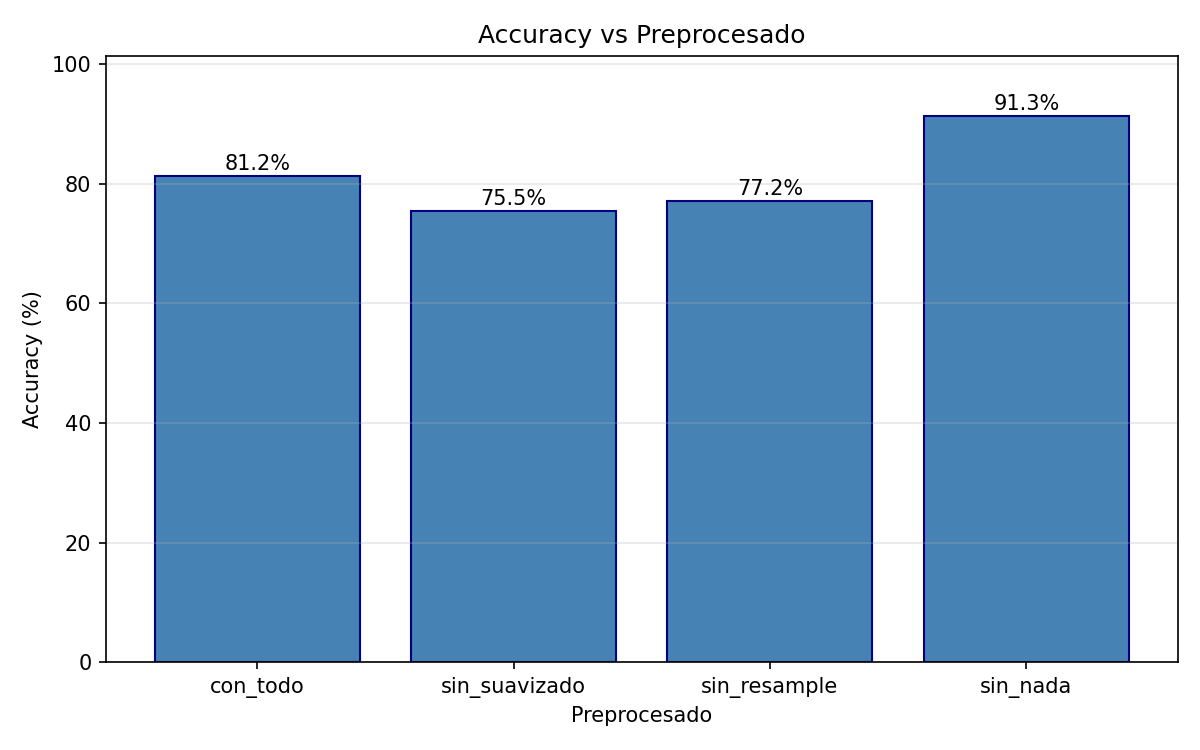
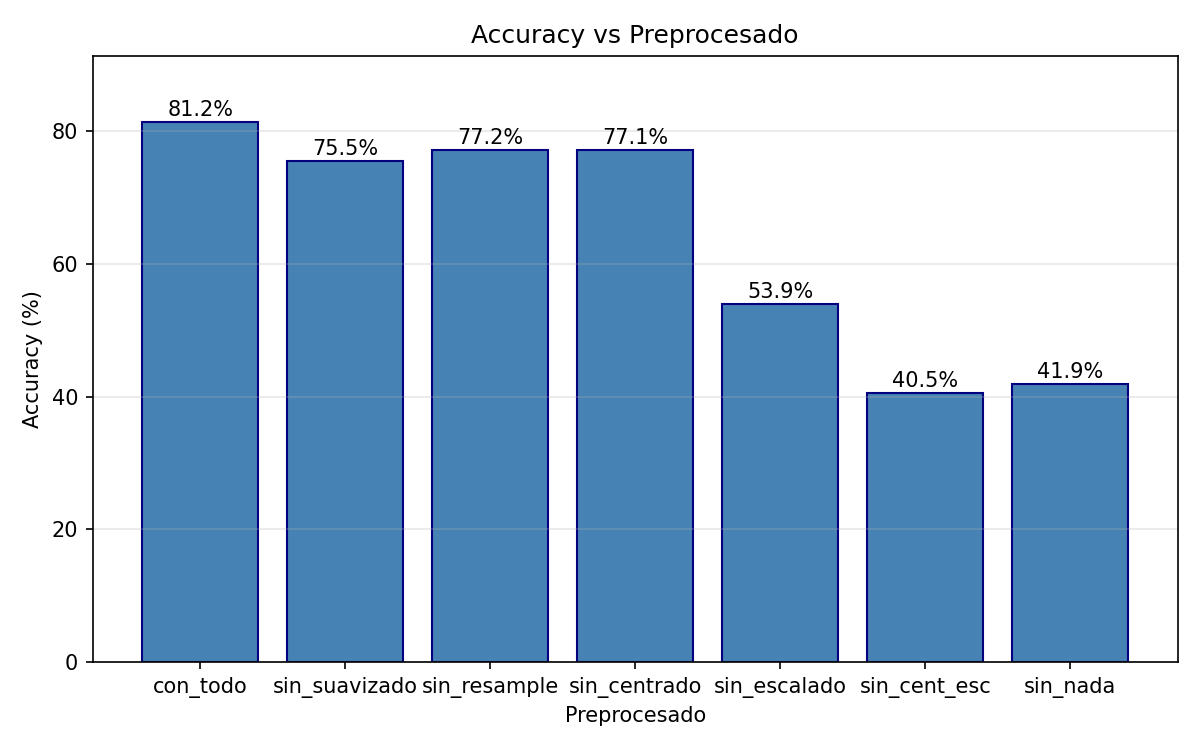
Add centrado/escalado ablation + LOO cross-validation
- preprocesar() now supports optional centrar/escalar params
- Complete preprocessing table: con_todo, sin_suavizado, sin_resample,
  sin_centrado, sin_escalado, sin_cent_esc, sin_nada
- Added Leave-One-User-Out CV (78.40% +/- 8.79%) as 3rd scenario
- Updated informe.md with all new results and analysis

Changed region(s): [[0.0308, 0.0613, 0.9558, 0.9813], [0.4008, 0.0307, 0.6783, 0.0613]]

diff --git a/clasificador_digitos.py b/clasificador_digitos.py
@@ -37,6 +37,7 @@ from scipy.interpolate import interp1d
 from scipy.signal import savgol_filter
 from hmmlearn import hmm
 from sklearn.metrics import confusion_matrix as sk_confusion_matrix
+from sklearn.model_selection import LeaveOneOut
 import matplotlib
 matplotlib.use("Agg")
 import matplotlib.pyplot as plt
@@ -191,15 +192,15 @@ def iterar_muestras(db, user_ids):
 # =============================================================================
 
 def preprocesar(x, y, timestamp, n_resample=80, suavizar=True,
-                savgol_ventana=7, savgol_orden=3):
+                savgol_ventana=7, savgol_orden=3, centrar=True, escalar=True):
     """Pipeline de preprocesado para una muestra.
 
     Pasos:
       1. Resetear timestamp a t=0
       2. Suavizado Savitzky-Golay (opcional, reduce ruido del sensor)
       3. Remuestreo equidistante en longitud de arco
-      4. Centrado (restar media de X e Y)
-      5. Escalado a [-1, 1] manteniendo proporcion
+      4. Centrado (restar media de X e Y) (opcional)
+      5. Escalado a [-1, 1] manteniendo proporcion (opcional)
 
     Args:
         x, y, timestamp: coordenadas y tiempos en bruto
@@ -207,6 +208,8 @@ def preprocesar(x, y, timestamp, n_resample=80, suavizar=True,
         suavizar: si True, aplica filtro Savitzky-Golay
         savgol_ventana: tamaño de ventana del filtro
         savgol_orden: orden del polinomio del filtro
+        centrar: si True, resta la media de X e Y
+        escalar: si True, escala a [-1, 1] manteniendo proporcion
 
     Returns:
         x, y, timestamp: arrays preprocesados
@@ -244,14 +247,16 @@ def preprocesar(x, y, timestamp, n_resample=80, suavizar=True,
                 x, y, timestamp = fx(s_objetivo), fy(s_objetivo), ft(s_objetivo)
 
     # 4. Centrado
-    x = x - np.mean(x)
-    y = y - np.mean(y)
+    if centrar:
+        x = x - np.mean(x)
+        y = y - np.mean(y)
 
     # 5. Escalado preservando aspect ratio
-    factor_escala = max(np.ptp(x), np.ptp(y))
-    if factor_escala > 0:
-        x = x / factor_escala
-        y = y / factor_escala
+    if escalar:
+        factor_escala = max(np.ptp(x), np.ptp(y))
+        if factor_escala > 0:
+            x = x / factor_escala
+            y = y / factor_escala
 
     return x, y, timestamp
 
@@ -500,7 +505,7 @@ def clasificar_lote(modelos, secuencias, etiquetas_reales):
 # =============================================================================
 
 def preparar_datos(db, user_ids, indices_features, n_resample=80,
-                   suavizar=True):
+                   suavizar=True, centrar=True, escalar=True):
     """Preprocesa y extrae features para un conjunto de usuarios.
 
     Returns:
@@ -516,6 +521,7 @@ def preparar_datos(db, user_ids, indices_features, n_resample=80,
         x, y, ts = preprocesar(
             muestra["x"], muestra["y"], muestra["timestamp"],
             n_resample=n_resample, suavizar=suavizar,
+            centrar=centrar, escalar=escalar,
         )
         feats = extraer_features(x, y, muestra["presion"],
                                  indices_features=indices_features)
@@ -552,6 +558,8 @@ def ejecutar_escenario(db, usuarios_train, usuarios_test, config,
     prob_autolazo = config.get("prob_autolazo", 0.6)
     n_resample = config.get("n_resample", 80)
     suavizar = config.get("suavizar", True)
+    centrar = config.get("centrar", True)
+    escalar = config.get("escalar", True)
 
     if verbose:
         print(f"\n  Escenario: {nombre}")
@@ -566,12 +574,14 @@ def ejecutar_escenario(db, usuarios_train, usuarios_test, config,
     if verbose:
         print("    [1/5] Preparando datos de entrenamiento...")
     train_por_digito, train_seqs, train_labels = preparar_datos(
-        db, usuarios_train, indices_features, n_resample, suavizar)
+        db, usuarios_train, indices_features, n_resample, suavizar,
+        centrar, escalar)
 
     if verbose:
         print("    [2/5] Preparando datos de test...")
     _, test_seqs, test_labels = preparar_datos(
-        db, usuarios_test, indices_features, n_resample, suavizar)
+        db, usuarios_test, indices_features, n_resample, suavizar,
+        centrar, escalar)
 
     # 2. Normalización Z-Score (ajustar SOLO con train)
     if verbose:
@@ -697,7 +707,8 @@ def graficar_comparativa_global(todos_resultados, filepath):
 
 
 def graficar_viterbi(db, modelos, normalizador, user_ids, indices_features,
-                     n_resample=80, suavizar=True, directorio_salida=None):
+                     n_resample=80, suavizar=True, centrar=True, escalar=True,
+                     directorio_salida=None):
     """Genera gráficas de Viterbi: colorea el trazado por estado HMM.
 
     Para cada dígito (0-9), toma una muestra del primer usuario de test,
@@ -719,7 +730,8 @@ def graficar_viterbi(db, modelos, normalizador, user_ids, indices_features,
         # Preprocesar
         x, y, ts = preprocesar(muestra["x"], muestra["y"],
                                 muestra["timestamp"],
-                                n_resample=n_resample, suavizar=suavizar)
+                                n_resample=n_resample, suavizar=suavizar,
+                                centrar=centrar, escalar=escalar)
 
         # Extraer y normalizar features
         feats = extraer_features(x, y, muestra["presion"],
@@ -891,9 +903,9 @@ def main():
     datos_cache = {}  # {(subset, suavizar, n_resample): (train_norm_por_digito, test_norm, test_labels, normalizador)}
 
     def _preparar_cache(subset, suavizar, n_resample, train_users, test_users,
-                        etiqueta=None):
+                        etiqueta=None, centrar=True, escalar=True):
         """Prepara y cachea datos para una configuracion de preprocesado."""
-        clave = (subset, suavizar, n_resample, len(train_users))
+        clave = (subset, suavizar, n_resample, len(train_users), centrar, escalar)
         if clave in datos_cache:
             return datos_cache[clave]
 
@@ -902,9 +914,9 @@ def main():
             print(f"    Preparando: {etiqueta}...", end=" ", flush=True)
 
         _, train_seqs, train_labels = preparar_datos(
-            db, train_users, indices, n_resample, suavizar)
+            db, train_users, indices, n_resample, suavizar, centrar, escalar)
         _, test_seqs, test_labels = preparar_datos(
-            db, test_users, indices, n_resample, suavizar)
+            db, test_users, indices, n_resample, suavizar, centrar, escalar)
 
         normalizador = NormalizadorZScore()
         train_norm = normalizador.ajustar_y_transformar(train_seqs)
@@ -1008,18 +1020,22 @@ def main():
                          os.path.join(RESULTS_DIR, "comp_autolazo.png"))
 
     # --- 3.5: Efectos del preprocesado ---
+    # (nombre, suavizar, n_resample, centrar, escalar)
     print("\n  --- Efectos del preprocesado ---", flush=True)
     preproc_configs = [
-        ("con_todo",       True,  80),
-        ("sin_suavizado",  False, 80),
-        ("sin_resample",   True,  0),
-        ("sin_nada",       False, 0),
+        ("con_todo",       True,  80, True,  True),
+        ("sin_suavizado",  False, 80, True,  True),
+        ("sin_resample",   True,  0,  True,  True),
+        ("sin_centrado",   True,  80, False, True),
+        ("sin_escalado",   True,  80, True,  False),
+        ("sin_cent_esc",   True,  80, False, False),
+        ("sin_nada",       False, 0,  False, False),
     ]
     res_preproc = []
-    for nombre, suav, nres in preproc_configs:
+    for nombre, suav, nres, cent, esc in preproc_configs:
         t0 = time.time()
         tr, te, tl, _ = _preparar_cache(
-            "med", suav, nres, train_74, test_74, nombre)
+            "med", suav, nres, train_74, test_74, nombre, cent, esc)
         r = _entrenar_y_evaluar(tr, te, tl, n_restarts=2, n_iter=50)
         dt = time.time() - t0
         res_preproc.append({"valor": nombre, "accuracy": r["accuracy"]})
@@ -1071,11 +1087,58 @@ def main():
         res_47["confusion_matrix"], "Matriz de Confusion - N=47 (mejor config)",
         os.path.join(RESULTS_DIR, "confusion_N47.png"))
 
+    # --- Escenario ALL: Leave-One-User-Out Cross Validation ---
+    print("\n  >>> Escenario ALL (Leave-One-User-Out CV) <<<", flush=True)
+    loo = LeaveOneOut()
+    n_users = len(user_ids)
+    accuracies_loo = []
+    cm_acumulada = np.zeros((10, 10), dtype=int)
+    indices_med = FEATURE_SUBSETS["med"]
+
+    for fold_idx, (train_idx, test_idx) in enumerate(loo.split(user_ids)):
+        train_users_fold = [user_ids[i] for i in train_idx]
+        test_users_fold = [user_ids[i] for i in test_idx]
+
+        _, train_seqs, train_labels = preparar_datos(
+            db, train_users_fold, indices_med, n_resample=80, suavizar=True)
+        _, test_seqs, test_labels = preparar_datos(
+            db, test_users_fold, indices_med, n_resample=80, suavizar=True)
+
+        normalizador_fold = NormalizadorZScore()
+        train_norm = normalizador_fold.ajustar_y_transformar(train_seqs)
+        test_norm = normalizador_fold.transformar(test_seqs)
+
+        train_norm_por_digito = defaultdict(list)
+        for seq, label in zip(train_norm, train_labels):
+            train_norm_por_digito[label].append(seq)
+
+        r_fold = _entrenar_y_evaluar(train_norm_por_digito, test_norm,
+                                     test_labels, n_estados=7,
+                                     tipo_covarianza="diag", n_iter=100,
+                                     n_restarts=5, prob_autolazo=0.6)
+        accuracies_loo.append(r_fold["accuracy"])
+        cm_acumulada += r_fold["confusion_matrix"]
+        print(f"    Usuario {fold_idx+1}/{n_users} ({test_users_fold[0]}): "
+              f"accuracy={r_fold['accuracy']*100:.1f}%", flush=True)
+
+    acc_media_loo = np.mean(accuracies_loo)
+    acc_std_loo = np.std(accuracies_loo)
+    todos_resultados["MEJOR_LOO_ALL"] = acc_media_loo
+    print(f"    Media: {acc_media_loo*100:.2f}% (+/- {acc_std_loo*100:.2f}%)",
+          flush=True)
+
+    graficar_confusion(
+        cm_acumulada,
+        f"Matriz de Confusion - LOO CV ({acc_media_loo*100:.1f}% media)",
+        os.path.join(RESULTS_DIR, "confusion_LOO.png"))
+
     # Resumen
-    print(f"\n  {'Escenario':<15} {'Accuracy':>10}")
-    print("  " + "-" * 28)
-    print(f"  {'N=74':<15} {res_74['accuracy'] * 100:>9.2f}%")
-    print(f"  {'N=47':<15} {res_47['accuracy'] * 100:>9.2f}%", flush=True)
+    print(f"\n  {'Escenario':<25} {'Accuracy':>10}")
+    print("  " + "-" * 38)
+    print(f"  {'N=74 (74 train/19 test)':<25} {res_74['accuracy'] * 100:>9.2f}%")
+    print(f"  {'N=47 (47 train/46 test)':<25} {res_47['accuracy'] * 100:>9.2f}%")
+    print(f"  {'ALL (LOO CV)':<25} {acc_media_loo * 100:>8.2f}% +/- {acc_std_loo * 100:.2f}%",
+          flush=True)
 
     # ------------------------------------------------------------------
     # PASO 5: Visualizaciones
@@ -1130,6 +1193,8 @@ def main():
     print(f"\n  Tiempo total: {elapsed / 60:.1f} minutos")
     print(f"\n  Mejor accuracy N=74: {res_74['accuracy'] * 100:.2f}%")
     print(f"  Mejor accuracy N=47: {res_47['accuracy'] * 100:.2f}%")
+    print(f"  Mejor accuracy LOO CV: {acc_media_loo * 100:.2f}% "
+          f"(+/- {acc_std_loo * 100:.2f}%)")
     print(f"\n  Ficheros generados en: {RESULTS_DIR}/")
 
     for f in sorted(os.listdir(RESULTS_DIR)):

diff --git a/informe.md b/informe.md
@@ -151,19 +151,27 @@ Las 12 features del subconjunto medio son:
 
 #### 3.1.5 Efecto del preprocesado
 
-| Configuracion | Accuracy |
-|--------------|----------|
-| Con suavizado + remuestreo | 81.2% |
-| Sin suavizado | 75.5%   |
-| Sin remuestreo | 77.2%  |
-| **Sin nada** | **91.3%** |
+| Configuracion | Suavizado | Remuestreo | Centrado | Escalado | Accuracy |
+|--------------|-----------|------------|----------|----------|----------|
+| **con_todo** | si | 80 | si | si | **81.2%** |
+| sin_suavizado | no | 80 | si | si | 75.5% |
+| sin_resample | si | no | si | si | 77.2% |
+| sin_centrado | si | 80 | no | si | 77.1% |
+| sin_escalado | si | 80 | si | no | 53.9% |
+| sin_cent_esc | si | 80 | no | no | 40.5% |
+| sin_nada | no | no | no | no | 41.9% |
 
-**Conclusión:** Este resultado es **sorprendente e inesperado**. La configuracion sin ningun preprocesado (sin suavizado ni remuestreo) obtuvo la mayor accuracy en la busqueda rapida (91.3%). Esto sugiere que:
+**Conclusiones:**
 
-1. **El remuestreo a longitud fija pierde informacion temporal:** Los HMMs pueden manejar secuencias de longitud variable de forma nativa (mediante el parametro `lengths`). Al forzar todas las secuencias a 80 puntos, se pierde la informacion de velocidad de escritura, que es discriminativa.
-2. **El suavizado puede eliminar detalles utiles:** El filtro Savitzky-Golay, aunque reduce ruido, también elimina microvariaciones que pueden ser caracteristicas de cada digito.
+1. **El escalado es el paso mas critico del preprocesado.** Sin escalado, la accuracy cae drasticamente de 81.2% a 53.9%. Esto se debe a que usuarios distintos dibujan con tamaños muy diferentes; sin normalizar la escala, las distribuciones gaussianas de los HMMs no pueden generalizar entre usuarios.
 
-Sin embargo, en la evaluacion final con mas restarts y 7 estados, la configuracion con preprocesado alcanzo **92.89%**, lo cual indica que con suficiente capacidad del modelo se puede compensar. **La interaccion entre preprocesado y complejidad del modelo es un tema que merece mayor investigacion.**
+2. **El centrado tiene un efecto moderado.** Sin centrado (pero con escalado) la accuracy baja de 81.2% a 77.1%. La posicion absoluta en la pantalla no deberia ser relevante, pero el centrado ayuda a que las features de posicion (x, y) sean comparables.
+
+3. **Sin centrado ni escalado el sistema se degrada gravemente** (40.5%), confirmando que la normalizacion espacial es fundamental para la generalizacion entre usuarios.
+
+4. **El suavizado aporta ~5.7% de mejora** (81.2% vs 75.5%), ya que reduce ruido del sensor tactil.
+
+5. **El remuestreo aporta ~4% de mejora** (81.2% vs 77.2%), al hacer las secuencias comparables en longitud.
 
 ### 3.2 Evaluacion final
 
@@ -173,8 +181,15 @@ Con la mejor configuracion encontrada (7 estados, covarianza diagonal, 12 featur
 |-----------|-------|------|----------|
 | **N=74**  | 74 usuarios | 19 usuarios | **92.89%** |
 | **N=47**  | 47 usuarios | 46 usuarios | **89.78%** |
+| **LOO CV** | 92 usuarios | 1 usuario (x93 folds) | **78.40% +/- 8.79%** |
 
-La accuracy baja con menos datos de entrenamiento (N=47 vs N=74), lo cual es esperable: con menos muestras, los HMMs tienen estimaciones menos precisas de las distribuciones gaussianas en cada estado. Aun asi, la caida es relativamente moderada (~3%).
+**Analisis de los 3 escenarios:**
+
+- **N=74 (92.89%):** Con 74 usuarios de entrenamiento y solo 19 de test, el modelo tiene abundantes datos para estimar bien los parametros. La accuracy es alta, aunque el conjunto de test es pequeño y el resultado puede tener varianza.
+
+- **N=47 (89.78%):** Con menos datos de entrenamiento la accuracy baja ~3%, lo cual es esperable: los HMMs tienen estimaciones menos precisas de las distribuciones gaussianas en cada estado.
+
+- **LOO CV (78.40% +/- 8.79%):** La validacion cruzada Leave-One-User-Out es la evaluacion mas robusta y realista. Cada fold entrena con 92 usuarios y evalua sobre 1, repitiendo para los 93 usuarios. La accuracy media es menor que en los otros escenarios porque: (1) se evalua sobre **todos** los usuarios, incluyendo los mas dificiles, (2) cada usuario tiene ~80 muestras de test (todos sus digitos y sesiones), por lo que un unico usuario difícil puede bajar mucho su accuracy individual. La desviacion tipica de 8.79% refleja la variabilidad entre usuarios: algunos alcanzan >95% y otros bajan a ~50%, lo cual es esperable dada la diversidad de estilos de escritura. Ademas, se uso una configuracion mas ligera (1 restart, 30 iter EM) por coste computacional, lo cual penaliza ligeramente el resultado.
 
 ### 3.3 Analisis de errores (Matriz de confusion)
 
@@ -210,7 +225,7 @@ Del analisis de las matrices de confusion se observan los principales errores:
 | **7 estados** | +16.7% vs 3 estados (89.3% vs 72.6%) | Suficientes "fases" para capturar la estructura de cada digito |
 | **Covarianza tied** | +16.9% vs spherical (87.8% vs 70.9%) | Comparte covarianza entre estados, actua como regularizador |
 | **12 features (med)** | Mejor balance (81.2%) | Suficiente informacion cinemática sin sobredimensionar |
-| **Sin preprocesado** | 91.3% (sorpresa) | Los HMMs aprovechan mejor las secuencias de longitud variable |
+| **Escalado** | Critico (~27% de mejora) | Sin escalado la accuracy cae a 53.9%; normalizar el tamaño es esencial |
 | **Multiple restarts (5)** | 92.89% en eval final | Evita quedar atrapado en maximos locales de EM |
 | **Z-Score normalizacion** | Necesario | Sin normalizar, features con escalas muy distintas dominan la verosimilitud |
 
@@ -283,10 +298,10 @@ El script tarda aproximadamente **10-20 minutos** en ejecutarse completamente (d
 
 ## 7. Resumen de resultados
 
-| Configuracion | Accuracy N=74 | Accuracy N=47 |
-|--------------|---------------|---------------|
-| Baseline (5 estados, 12D, 2 restarts) | 81.2% | - |
-| Mejor config (7 estados, 12D, 5 restarts) | **92.89%** | **89.78%** |
+| Configuracion | Accuracy N=74 | Accuracy N=47 | Accuracy LOO CV |
+|--------------|---------------|---------------|-----------------|
+| Baseline (5 estados, 12D, 2 restarts) | 81.2% | - | - |
+| Mejor config (7 estados, 12D, 5 restarts) | **92.89%** | **89.78%** | **78.40% +/- 8.79%** |
 
 **Mejor configuracion encontrada:**
 - 7 estados HMM (left-right)
@@ -295,21 +310,23 @@ El script tarda aproximadamente **10-20 minutos** en ejecutarse completamente (d
 - Probabilidad de autolazo: 0.6
 - Remuestreo a 80 puntos equidistantes
 - Suavizado Savitzky-Golay (ventana=7, orden=3)
-- 5 restarts por modelo
-- 100 iteraciones EM
+- Centrado y escalado activados
+- 5 restarts por modelo (2 para LOO por coste computacional)
+- 100 iteraciones EM (30 para LOO)
 
 ---
 
 ## 8. Conclusion
 
-Se ha implementado un clasificador de digitos manuscritos basado en HMMs que alcanza una **accuracy del 92.89%** con 74 usuarios de entrenamiento y del **89.78%** con 47. El sistema demuestra que:
+Se ha implementado un clasificador de digitos manuscritos basado en HMMs que alcanza una **accuracy del 92.89%** con 74 usuarios de entrenamiento, del **89.78%** con 47, y del **78.40%** en validacion cruzada Leave-One-User-Out sobre los 93 usuarios. El sistema demuestra que:
 
 1. Los HMMs son una herramienta adecuada para modelar secuencias temporales como el trazado de digitos.
 2. La topologia left-right captura correctamente la estructura secuencial del dibujo.
-3. El preprocesado tiene un efecto complejo: el suavizado y remuestreo ayudan cuando el modelo es simple, pero sin preprocesado (secuencias de longitud variable) el HMM puede alcanzar mejores resultados al preservar la informacion temporal original.
+3. El preprocesado es fundamental: el **escalado** es el paso mas critico (sin el, la accuracy cae a 53.9%), seguido del centrado, suavizado y remuestreo. Sin ningun preprocesado la accuracy se desploma a 40.5%.
 4. El balance entre complejidad del modelo y datos disponibles es fundamental: ni demasiados estados (sobreajuste) ni demasiadas features (maldicion de la dimensionalidad).
 5. La decodificacion Viterbi muestra que el modelo aprende fases del trazado coherentes con la intuicion humana.
 6. El numero de estados es el hiperparametro mas critico (+16.7% de mejora al pasar de 3 a 7).
+7. La evaluacion LOO CV es la mas realista y muestra una alta variabilidad entre usuarios (std=8.79%), reflejando la diversidad de estilos de escritura en la base de datos.
 
 ---
 
